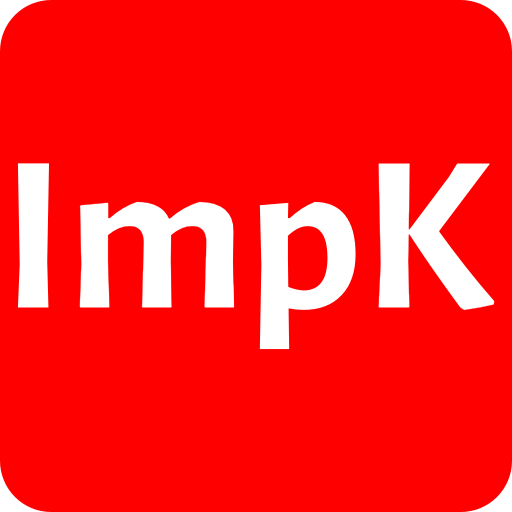
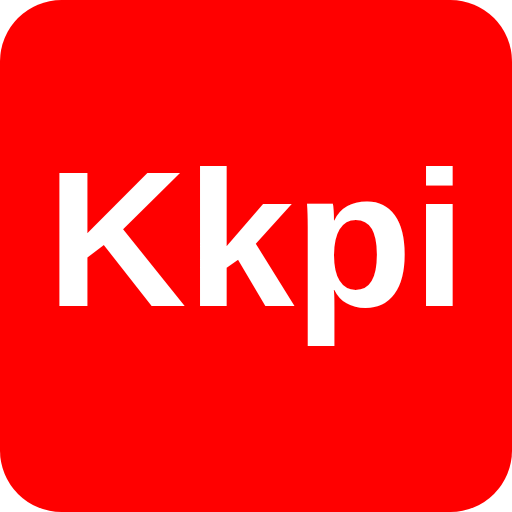
feat(icone): logótipo Kkpi como ícone da app | kanban-kpi-analyzer-v4_11_3.html
Substitui os quatro icon-*.png pelo logótipo Kkpi (fundo vermelho,
lettering branco). As variantes maskable levam o fundo a sangrar e o
lettering dentro da zona segura (80% central), para não serem cortadas
pelas máscaras do Android.

Liga o ícone também como favicon e apple-touch-icon — a app não tinha
nenhum e o pedido a /favicon.ico devolvia 404.

O bump 4.11.2 -> 4.11.3 renova o CACHE_NAME do Service Worker, para que
as PWA já instaladas recebam os ícones novos na próxima visita online.

Nota: os PNG foram reconstruídos a partir do logótipo fornecido, com
Liberation Sans Bold. Para usar o ficheiro original exacto basta
substituir os quatro icon-*.png na raiz — nomes e caminhos mantêm-se.

Claude-Session: https://claude.ai/code/session_01UVgpTu6pX291tAHymQnX5g

diff --git a/sw.js b/sw.js
@@ -1,6 +1,6 @@
 /* =====================================================
    SERVICE WORKER — Kanban KPI Analyzer
-   Versão: 4.11.2
+   Versão: 4.11.3
    ------------------------------------------------
    Estratégia:
    - App shell (HTML, manifest, ícones): cache-first,
@@ -17,7 +17,7 @@
      crescimento ilimitado do cache com recursos externos
    ===================================================== */
 
-const APP_VERSION = '4.11.2';
+const APP_VERSION = '4.11.3';
 const CACHE_NAME = `kanban-kpi-v${APP_VERSION}`;
 
 // Documento estável servido à PWA. NÃO usar o nome versionado:

diff --git a/README.md b/README.md
@@ -2,7 +2,7 @@
 
 > Ferramenta web **100% offline** para controlo e análise de Kanban e gestão de KPI para equipas de manutenção de supermercados.
 
-**Versão atual:** 4.11.2 — servida como `index.html` (cópia versionada: `kanban-kpi-analyzer-v4_11_2.html`)
+**Versão atual:** 4.11.3 — servida como `index.html` (cópia versionada: `kanban-kpi-analyzer-v4_11_3.html`)
 
 ---
 
@@ -152,17 +152,17 @@ Ficheiro Excel (`.xlsx`) com as seguintes folhas obrigatórias:
 git status
 
 # 2. Adicionar alterações
-git add index.html kanban-kpi-analyzer-v4_11_2.html versao.md README.md
+git add index.html kanban-kpi-analyzer-v4_11_3.html versao.md README.md
 
 # 3. Commit com mensagem descritiva
-git commit -m "fix(pwa): app shell offline | kanban-kpi-analyzer-v4_11_2.html"
+git commit -m "feat(icone): logótipo Kkpi | kanban-kpi-analyzer-v4_11_3.html"
 
 # 4. Enviar para GitHub
 git push
 
 # 5. Criar tag de versão
-git tag -a v4.11.2 -m "Descrição curta da alteração"
-git push origin v4.11.2
+git tag -a v4.11.3 -m "Descrição curta da alteração"
+git push origin v4.11.3
 ```
 
 ### Localização obrigatória das 5 actualizações de versão no HTML
@@ -193,7 +193,8 @@ Consulte o ficheiro [`versao.md`](./versao.md) para o histórico completo.
 
 | Versão | Data | Destaque |
 |---|---|---|
-| **4.11.2** | 03 Ago 2026 | 🚑 PWA reparada (app shell nunca instalava) + validação de serviço/artigo nas referências |
+| **4.11.3** | 03 Ago 2026 | 🎨 Ícone Kkpi nas 4 variantes + favicon |
+| 4.11.2 | 03 Ago 2026 | 🚑 PWA reparada (app shell nunca instalava) + validação de serviço/artigo nas referências |
 | 4.11.1 | 19 Jul 2026 | 🔒 SRI nos scripts CDN + escape de mensagens de alerta |
 | 4.11.0 | 18 Jul 2026 | 📌 App servida como `index.html` estável |
 | 4.10.0 | 11 Jul 2026 | 📱 Progressive Web App — instalável e utilizável offline (`manifest.json` + `sw.js`) |

diff --git a/versao.md b/versao.md
@@ -4,6 +4,18 @@
 
 ---
 
+## v4.11.3 — 03 Ago 2026
+
+### 🎨 Identidade visual: ícone Kkpi
+- Ícones da app substituídos pelo logótipo **Kkpi** (fundo vermelho, lettering branco), nas 4 variantes declaradas no `manifest.json`: `192`/`512` normais e `192`/`512` *maskable*
+- As variantes *maskable* têm o fundo a sangrar e o lettering dentro da zona segura (80% central), para não serem cortadas pelas máscaras do Android
+- **Ícone ligado também como `favicon` e `apple-touch-icon`** — a app não tinha nenhum e o pedido a `/favicon.ico` devolvia 404
+- O bump de versão renova o `CACHE_NAME` do Service Worker, para que as PWA já instaladas recebam os ícones novos na próxima visita online
+
+> ℹ Os ficheiros PNG foram reconstruídos a partir do logótipo fornecido (Liberation Sans Bold). Para usar o ficheiro original exacto, basta substituir os quatro `icon-*.png` na raiz — os nomes e caminhos mantêm-se.
+
+---
+
 ## v4.11.2 — 03 Ago 2026
 
 ### 🚑 Revisão da app: PWA reparada + integridade de dados
